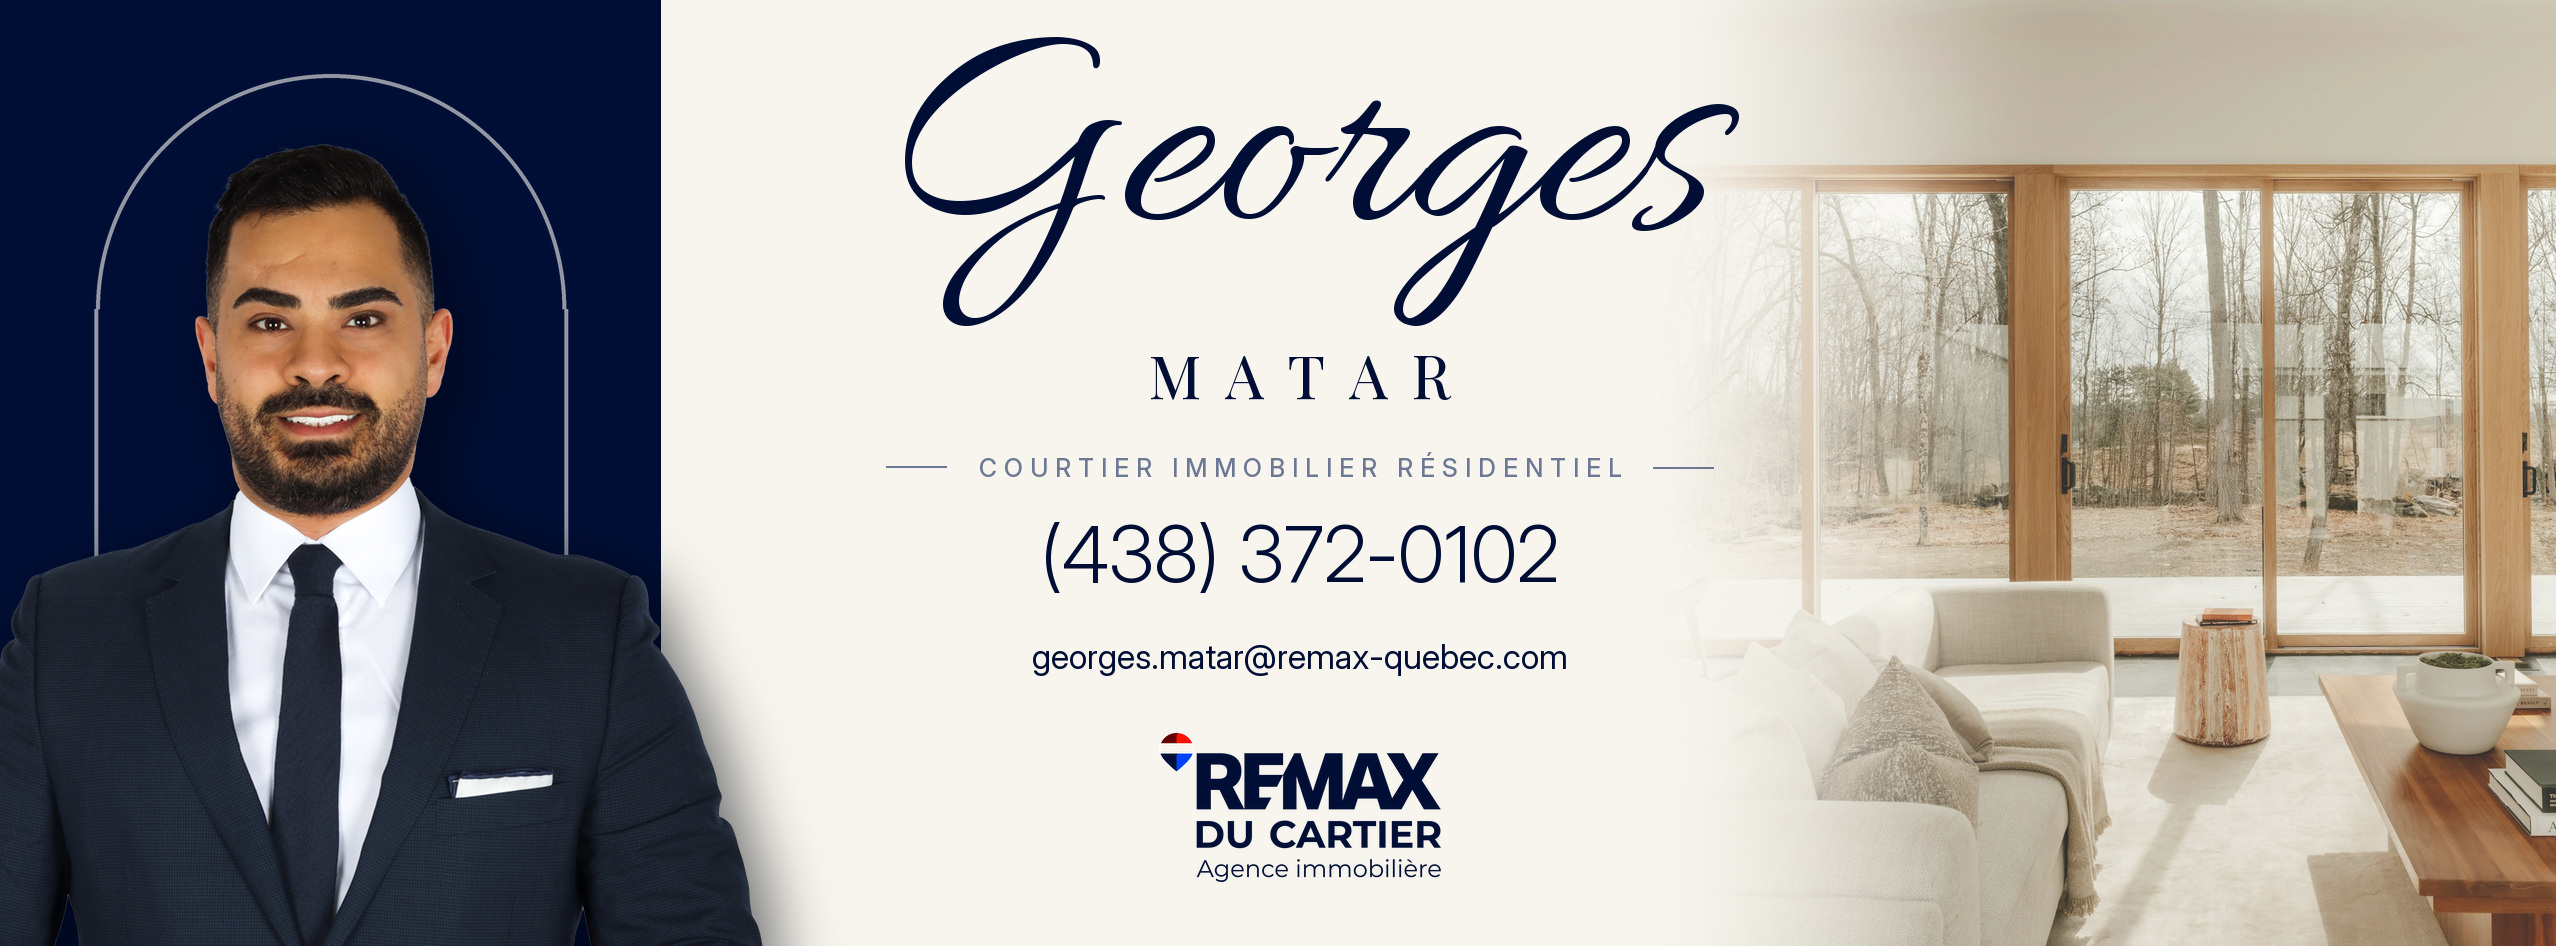
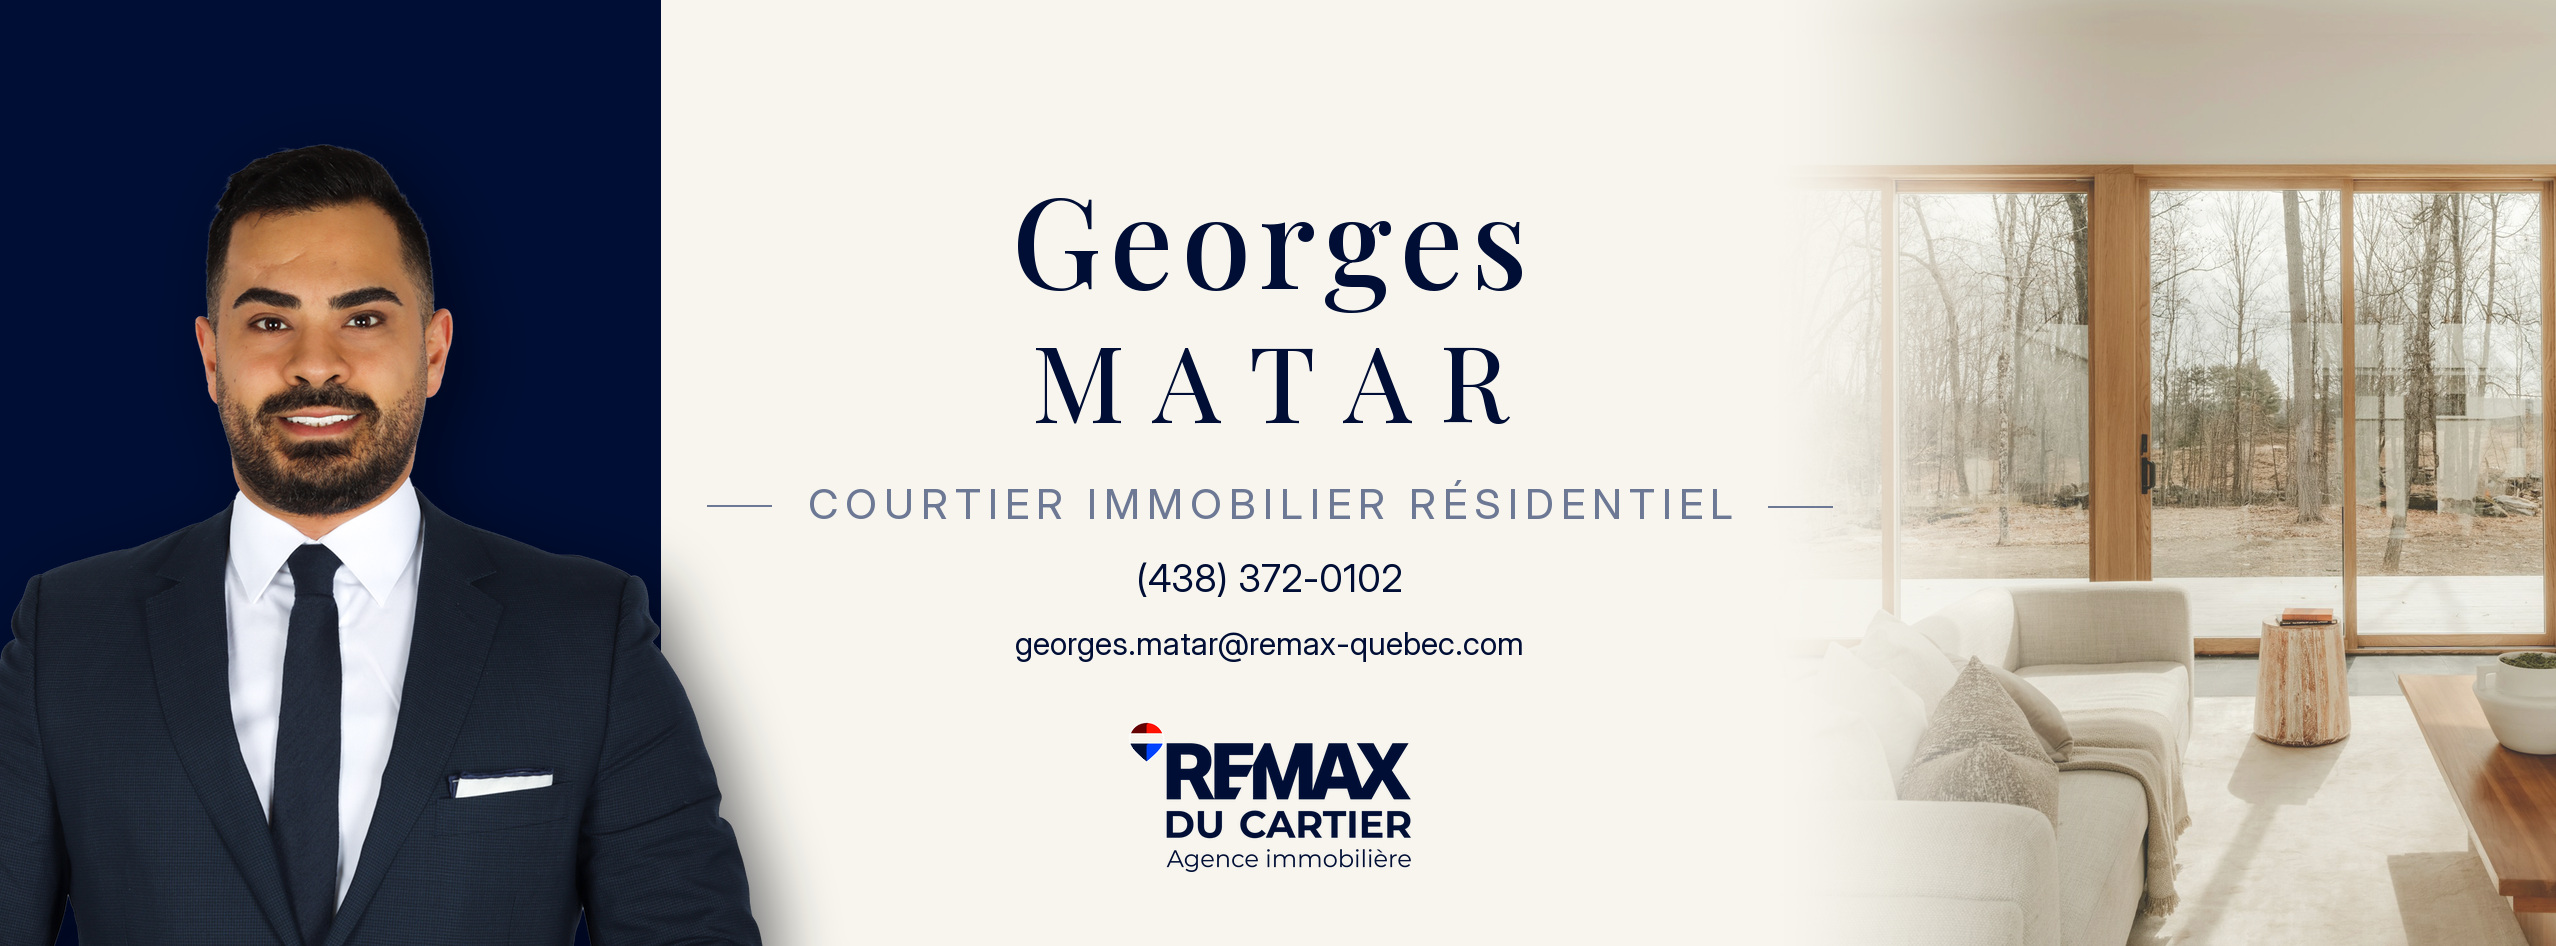
facebook: couverture sans arche, nom en Playfair sur deux lignes
Retours de Georges: plus d arche au dessus de la tete, prenom en
serif formel plutot qu en calligraphie, Georges et MATAR a taille
voisine, et le titre de courtier un cran au dessus du telephone.
Colonne de texte recalee a gauche et photo d interieur decalee a
droite pour que la ligne de titre, plus longue, reste sur le creme.

diff --git a/facebook/generer-couverture-arche.py b/facebook/generer-couverture-arche.py
@@ -36,7 +36,6 @@ W, H = 2556, 946
 NAVY = (0, 14, 53)
 CREME = (247, 245, 238)
 NAVY_DOUX = (108, 120, 148)
-CREME_FILET = (247, 245, 238, 150)
 
 NOM = "Georges"
 PRENOM_NOM = "MATAR"
@@ -44,7 +43,7 @@ TITRE = "COURTIER IMMOBILIER RÉSIDENTIEL"
 TEL = "(438) 372-0102"
 COURRIEL = "georges.matar@remax-quebec.com"
 
-CX = 1300                                    # axe de la colonne de texte
+CX = 1270                                    # axe de la colonne de texte
 
 
 # ---------------------------------------------------------------- polices
@@ -99,21 +98,6 @@ def bandeau(canvas):
     canvas.alpha_composite(lay)
 
 
-def arche(canvas):
-    """Arche a l interieur du bandeau, un filet creme tres fin."""
-    ss = 3
-    x0, x1, haut = 96, 566, 74
-    lay = Image.new("RGBA", (W * ss, H * ss), (0, 0, 0, 0))
-    d = ImageDraw.Draw(lay)
-    r = (x1 - x0) / 2
-    d.arc([x0 * ss, haut * ss, x1 * ss, (haut + 2 * r) * ss], 180, 360,
-          fill=CREME_FILET, width=4 * ss)
-    for x in (x0, x1):
-        d.line([(x * ss, (haut + r) * ss), (x * ss, H * ss)],
-               fill=CREME_FILET, width=4 * ss)
-    canvas.alpha_composite(lay.resize((W, H), Image.LANCZOS))
-
-
 # ---------------------------------------------------------------- portrait
 def portrait(canvas):
     im = Image.open(os.path.join(ASSETS, "georges-matar-3.png")).convert("RGBA")
@@ -132,7 +116,7 @@ def portrait(canvas):
 # ---------------------------------------------------------------- interieur
 def interieur(canvas):
     """Photo d interieur a droite, fondue dans le creme vers la gauche."""
-    x0 = 1636
+    x0 = 1760
     pw, ph = W - x0, H
     im = Image.open(os.path.join(SOURCES, "interieur-salon.jpg")).convert("RGB")
     e = max(pw / im.width, ph / im.height)
@@ -146,7 +130,7 @@ def interieur(canvas):
     im.alpha_composite(voile)
 
     # degrade d entree: invisible a gauche, pleine opacite a droite
-    fondu = 420
+    fondu = 360
     m = Image.new("L", (pw, 1), 255)
     mp = m.load()
     for x in range(fondu):
@@ -179,27 +163,26 @@ def couverture():
     c = Image.new("RGBA", (W, H), CREME + (255,))
     interieur(c)
     bandeau(c)
-    arche(c)
     portrait(c)
     d = ImageDraw.Draw(c)
 
-    centre(d, 216, NOM, allura(296), NAVY + (255,), anchor="ms")
-    centre(d, 334, PRENOM_NOM, playfair(60, 450), NAVY + (255,), track=24)
+    centre(d, 152, NOM, playfair(126, 500), NAVY + (255,), track=8)
+    centre(d, 308, PRENOM_NOM, playfair(106, 450), NAVY + (255,), track=28)
 
     # filets de part et d autre du titre
-    ft = inter(25, 500)
-    y = 452
+    ft = inter(42, 450)
+    y = 478
     lt = largeur(d, TITRE, ft, 7)
     centre(d, y, TITRE, ft, NAVY_DOUX + (255,), track=7)
     for s in (-1, 1):
-        x = CX + s * (lt / 2 + 32)
-        d.line([(x, y + 15), (x + s * 60, y + 15)], fill=NAVY_DOUX + (150,),
+        x = CX + s * (lt / 2 + 36)
+        d.line([(x, y + 28), (x + s * 64, y + 28)], fill=NAVY_DOUX + (150,),
                width=2)
 
-    centre(d, 522, TEL, inter(78, 300), NAVY + (255,))
-    centre(d, 644, COURRIEL, inter(34, 400), NAVY + (235,))
+    centre(d, 562, TEL, inter(38, 400), NAVY + (255,))
+    centre(d, 632, COURRIEL, inter(32, 400), NAVY + (235,))
 
-    logo(c, 150, 732)
+    logo(c, 150, 722)
     return c
 
 
